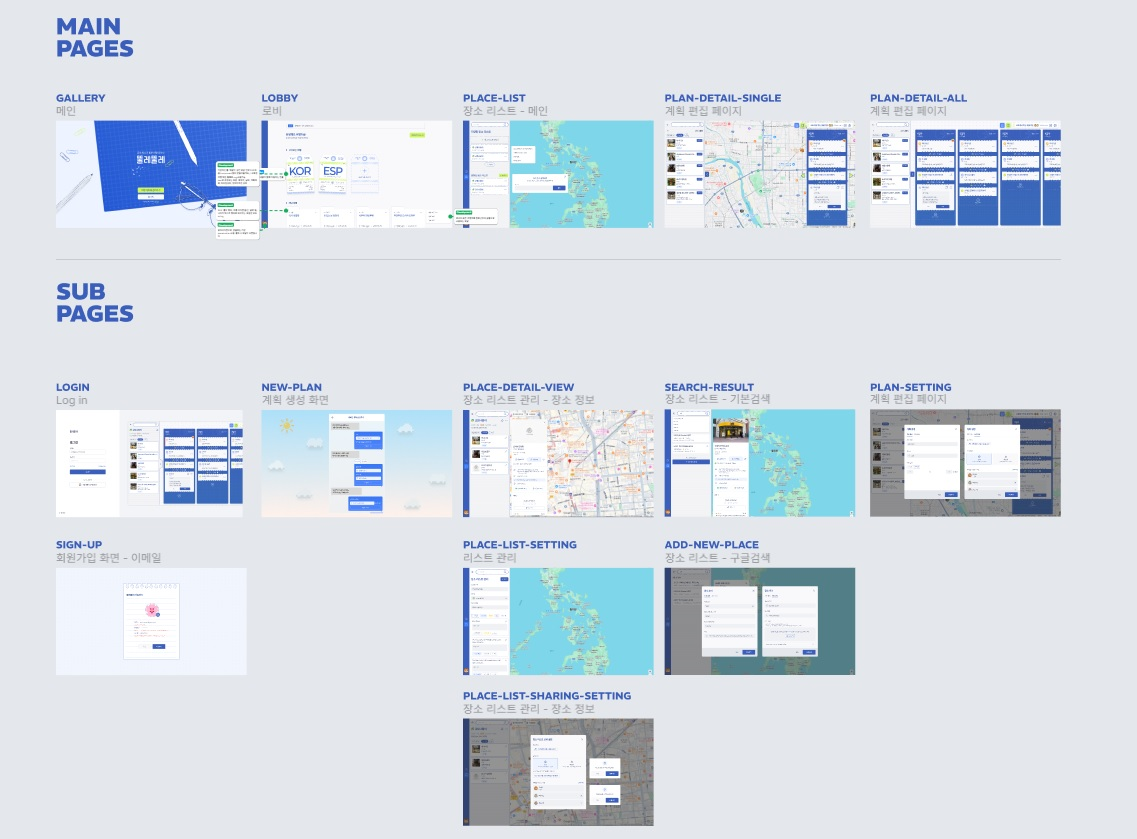
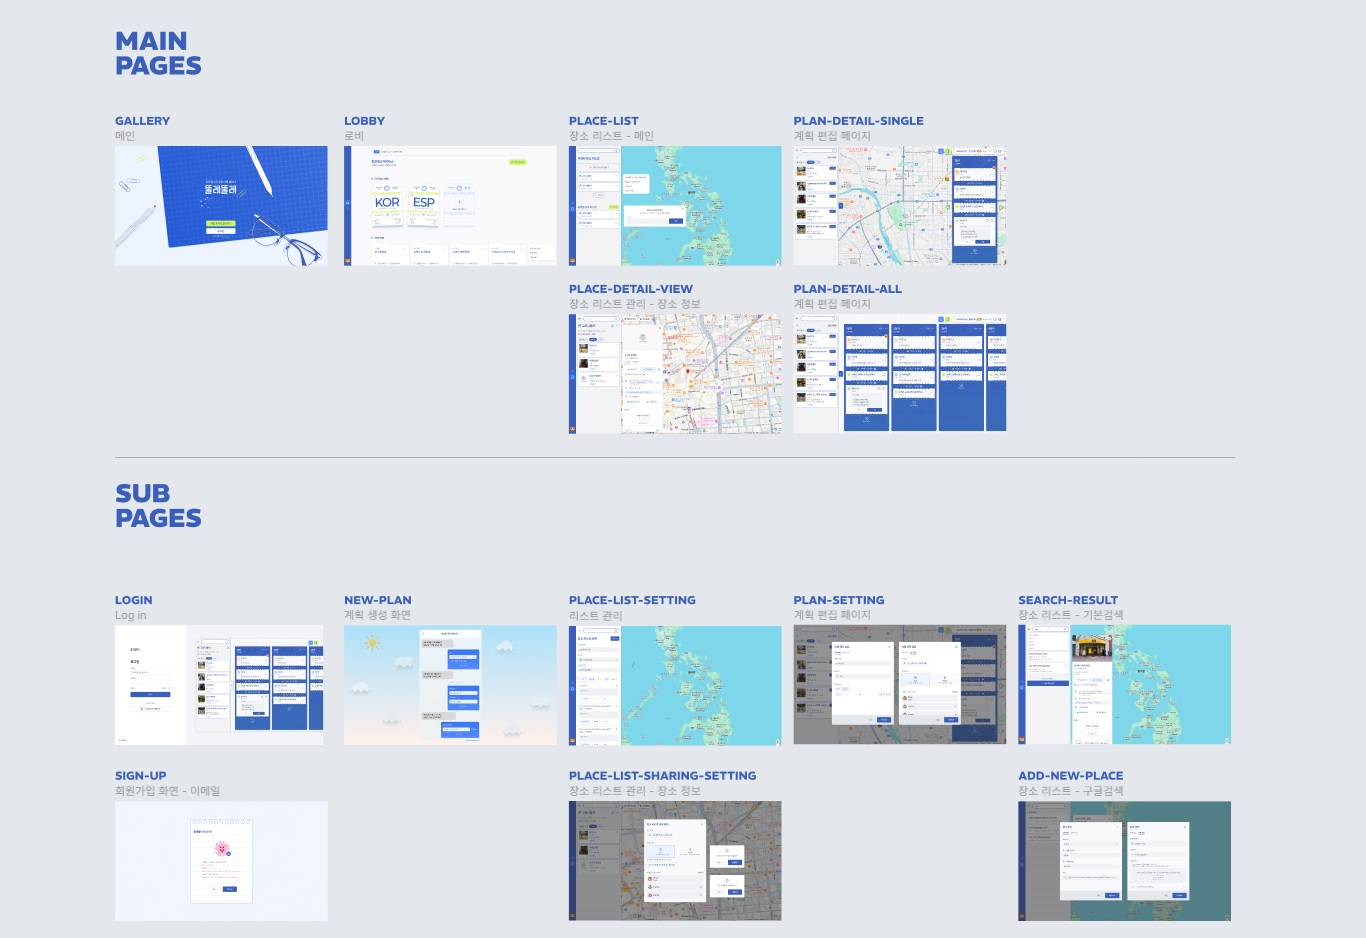
Chore: 오탈자 수정

Changed region(s): [[0.0308, 0.0, 0.9543, 0.9917], [0.0923, 0.8057, 0.1847, 0.9607], [0.0308, 0.3409, 0.1231, 0.4029]]

diff --git a/README.md b/README.md
@@ -4,9 +4,9 @@
 
 ## 프로젝트 소개
 
-뚤레뚤레는 장소 저장부터 여행 계획 작성까지 한곳에서 관리할 수 있는 여행 계획 협업 웹 서비스입니다.
+뚤레뚤레는 **장소 저장부터 여행 계획 작성까지 한곳에서 관리할 수 있는 여행 계획 협업 웹 서비스**입니다.
 
-실제 여행을 준비하면서 장소는 지도 서비스에, 일정은 일정 관리 서비스에, 여행용 핸드북은 디자인 툴에 각각 따로 관리해야 하는 불편함을 자주 겪었습니다. 이러한 문제를 해결하기 위해 장소 저장부터 일정 작성, 협업까지 하나의 서비스에서 해결하여 여행 준비 과정을 더욱 단순하고 효율적으로 만드는 것을 목표로 기획했습니다.
+실제 여행을 준비하면서 장소는 지도 서비스에, 일정은 일정 관리 서비스에, 여행용 핸드북은 디자인 툴에 각각 따로 관리해야 하는 불편함을 자주 겪었습니다. 이러한 문제를 해결하기 위해 장소 저장부터 일정 작성, 협업까지 하나의 서비스에서 해결하여 **여행 준비 과정을 더욱 단순하고 효율적으로 만드는 것**을 목표로 기획했습니다.
 
 현재 PC 환경을 기준으로 1차 MVP를 개발 중이며, 이후 모바일 대응, 여행 핸드북 이미지 출력, 오프라인 모드, 체크리스트 기능 등을 순차적으로 지원할 예정입니다.
 
@@ -123,7 +123,7 @@
 <details>
 <summary>프로젝트 노션</summary>
 
-[🔗 Notion 바로가기](https://ronkacloset.notion.site/Beta-16dd5a9efb39804a8e52dc6c8328e950?pvs=4)
+[🔗 Notion 바로가기](https://app.notion.com/p/291726cada088276a06481fe27ec1a43?source=copy_link)
 
 [![Notion](public/md-source/notion.jpg)](https://app.notion.com/p/291726cada088276a06481fe27ec1a43?source=copy_link)
 
